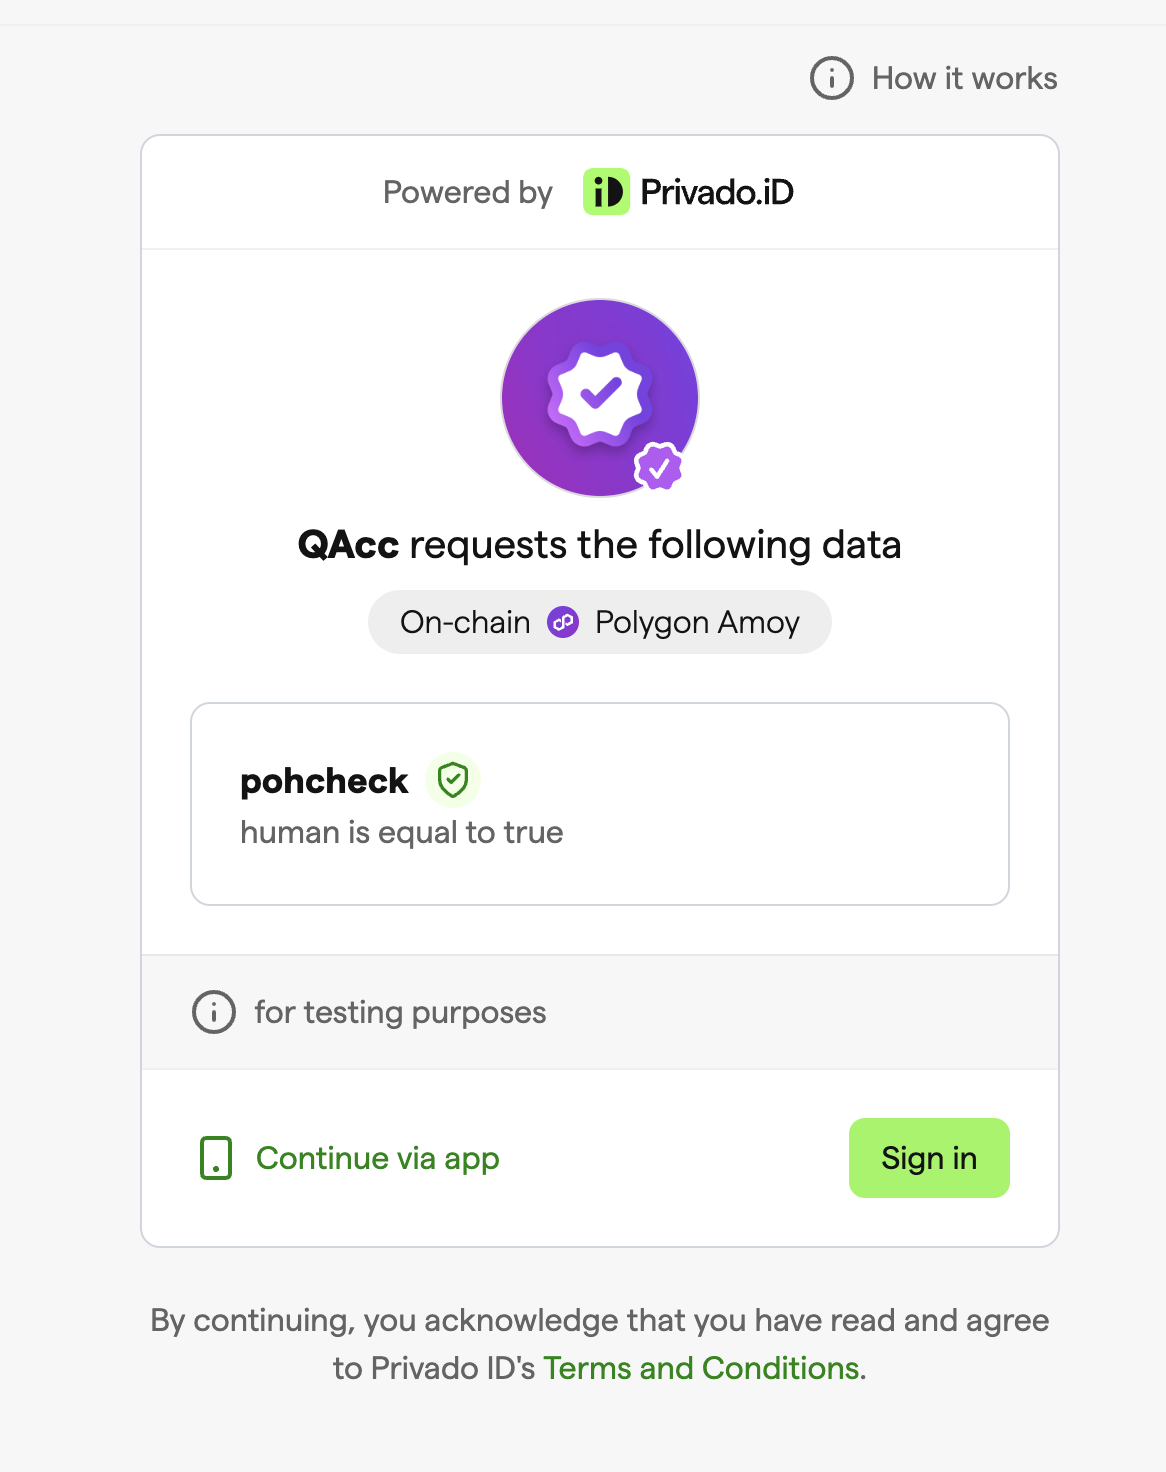
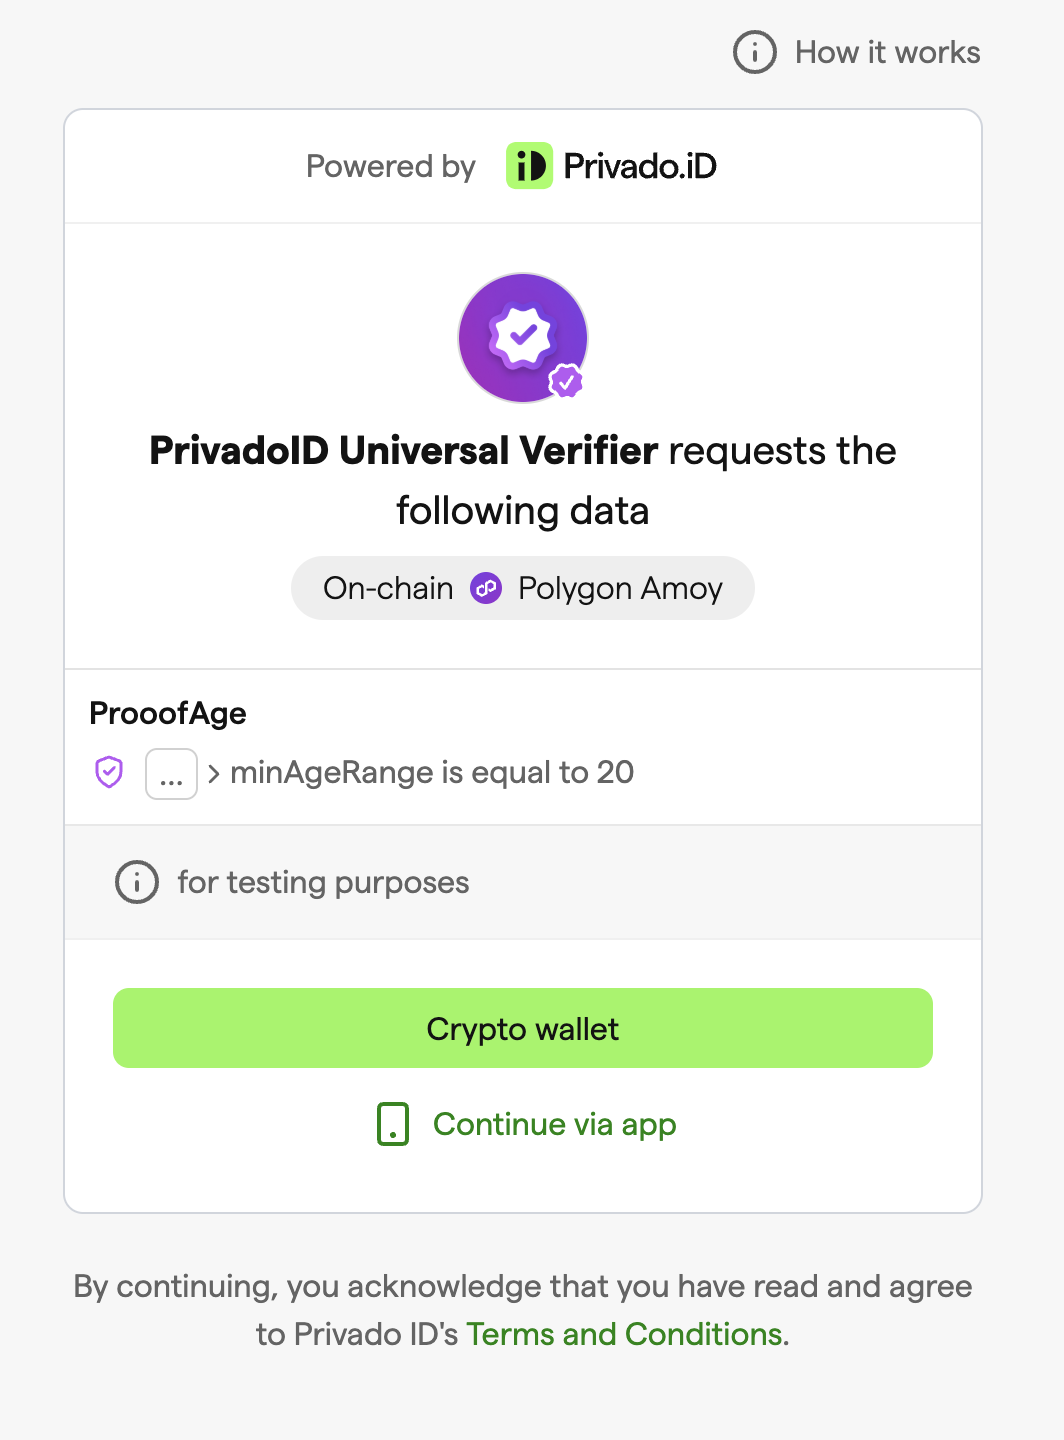
fix set-zkp

diff --git a/docs/verifier/on-chain-verification/set-zkp-request.md b/docs/verifier/on-chain-verification/set-zkp-request.md
@@ -16,33 +16,41 @@ import useBaseUrl from '@docusaurus/useBaseUrl';
 
 ### Approach - A Setting Request using Query Builder:
 
-1. Visit the [PrivadoID Query Builder](https://tools.privado.id/query-builder) and paste the JSON-LD Context URL (mentioned above) in the input box.
-2. Select the schema type to `pohcheck` and select the `human` in the Attribute field.
+1. Visit the [PrivadoID Query Builder](https://tools.privado.id/query-builder) and paste the JSON-LD Context URL (mentioned below).
+`ipfs://QmfEEiU1UqkH5eXSFurSbu6g87k6R6YhKtxyRnd534Wn6E`
+
+2. Select the schema type to `Proof of Age`, click on `Add condition` and select the `minAgeRange` in the Attribute field.
 <div align="center">
     <img width="600" src={useBaseUrl("img/onchain-verifier/querybuilder-1.png")}></img>
 </div>
-
-3. Select the Proof type "Signature-based (SIG)" and Circuit ID Credential Atomic Query v3 On Chain.
-
-4. Set the query type as Condition and Operator as "Is equal to," and select `true` in the Attribute value.
-
-5. Set the Issuer DID field to "*" to accept credentials from any issuer or, if you want, you can use any specific DID to restrict allowed issuers for the query.
+<br/>
 <div align="center">
     <img width="600" src={useBaseUrl("img/onchain-verifier/querybuilder-2.png")}></img>
 </div>
 
-6. Next, click on the **“Create query”**.
+3. Set the Issuer DID field to "*" to accept credentials from any issuer or, if you want, you can use any specific DID to restrict allowed issuers for the query.
 
-7. Add the Universal Verifier Smart contract address for the selected network (e.g., for Polygon Amoy: `0xfcc86A79fCb057A8e55C6B853dff9479C3cf607c`) in the Smart Contract Address input.
+4. Set the Operator as "Is equal to," and input value `20` in the Attribute value
+
+5. Select verification type as `on-chain` and click on Advanced options and select the Proof type `BJJSignature2021` and Circuit ID `Credential Atomic Query v3`.
+
 <div align="center">
     <img width="600" src={useBaseUrl("img/onchain-verifier/querybuilder-3.png")}></img>
 </div>
-
-8. Click on the **Set request** to submit the on-chain request.
-
-9. Click on **Confirm** in the Metamask to accept and submit the request.
+<br/>
 <div align="center">
     <img width="600" src={useBaseUrl("img/onchain-verifier/querybuilder-4.png")}></img>
+</div>
+
+6. Add the Universal Verifier Smart contract address for the selected network (e.g., for Polygon Amoy: `0xfcc86A79fCb057A8e55C6B853dff9479C3cf607c`) in the Smart Contract Address input.
+
+7. Click on the **Set query** to submit the on-chain request.
+
+8. Click on **Confirm** in the Metamask to accept and submit the request.
+
+9. Next, click on the **“Test query”**.
+<div align="center">
+    <img width="600" src={useBaseUrl("img/onchain-verifier/querybuilder-5.png")}></img>
 </div>
 
 :::note
